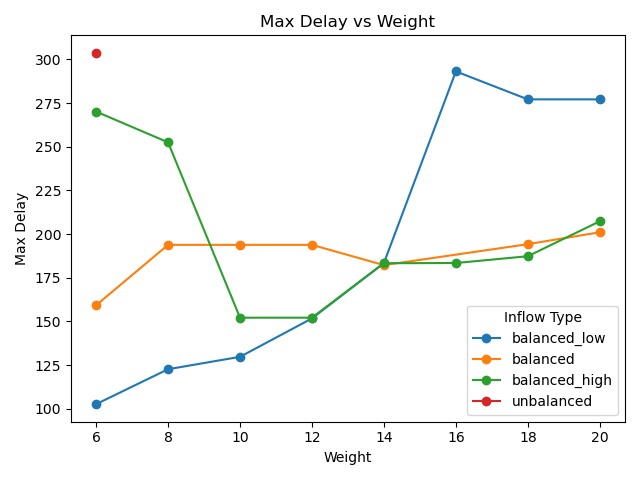
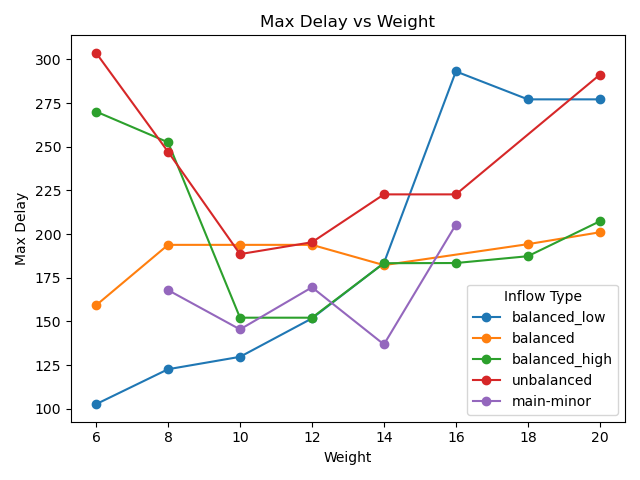
119-フィギュアをアップデート

diff --git a/misc/check_weight_difference.py b/misc/check_weight_difference.py
@@ -22,7 +22,7 @@ config = {
         'balanced' : True,
         'balanced_high' : True,
         'unbalanced' : True,
-        'main-minor' : False,
+        'main-minor' : True,
     },
     'compare_to' : 'all' # 1. 'all': 全てのdemand_typeを1つのグラフで比較, 2. 'each': 各demand_typeごとに比較（scootとdrlの結果も基準線として表示）
 }
@@ -33,8 +33,8 @@ weights = {
         'balanced_low': [6, 8, 10, 12, 14, 16, 18, 20],
         'balanced' : [6, 8, 10, 12, 14, 18, 20],
         'balanced_high' : [6, 8, 10, 12, 14, 16, 18, 20],
-        'unbalanced' : [6],
-        'main-minor' : [],
+        'unbalanced' : [6, 8, 10, 12, 14, 16, 20],
+        'main-minor' : [8, 10, 12, 14, 16],
     },
     '3333' : {
         'balanced_low': [],
